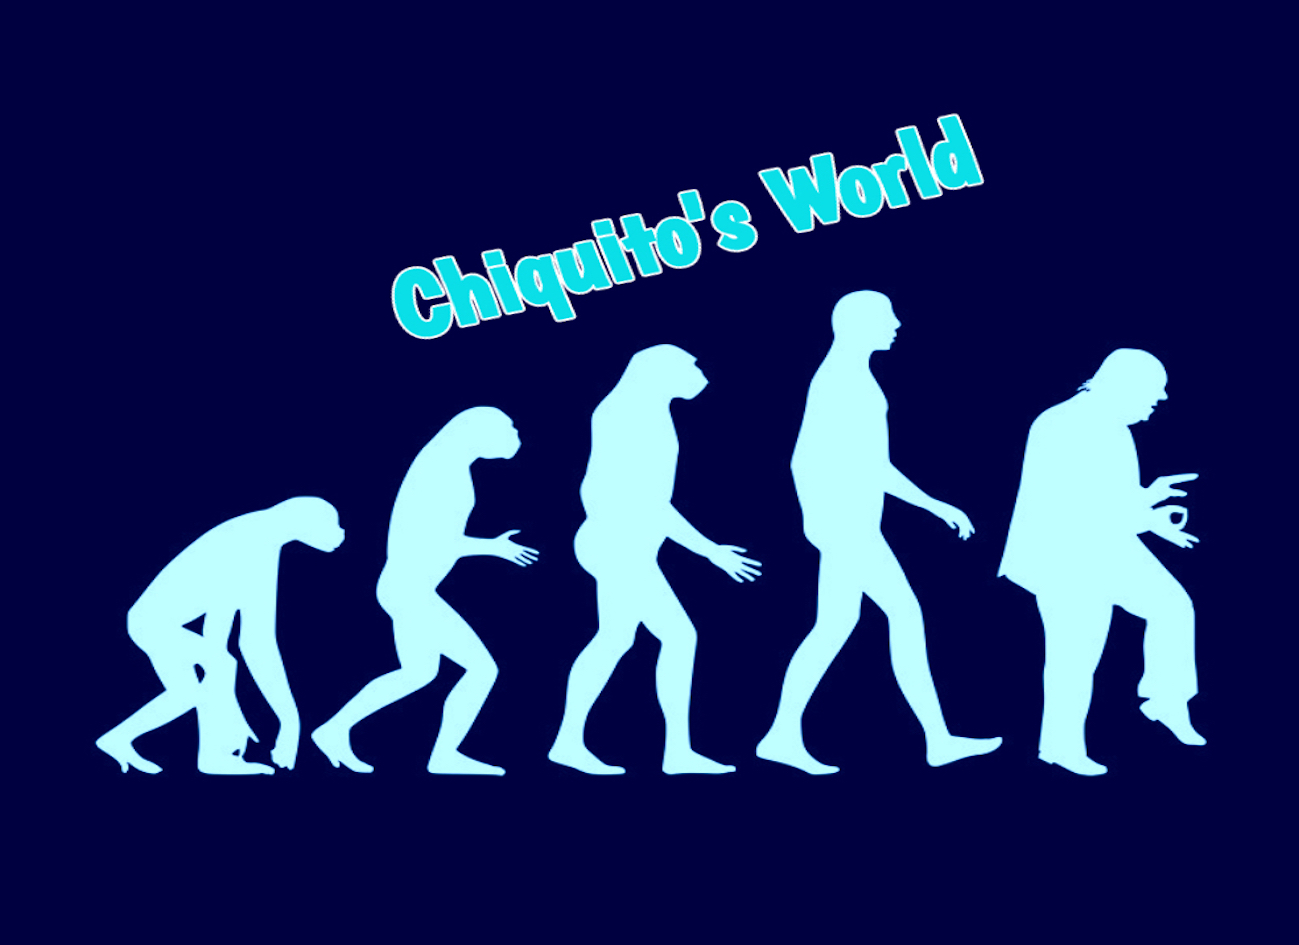
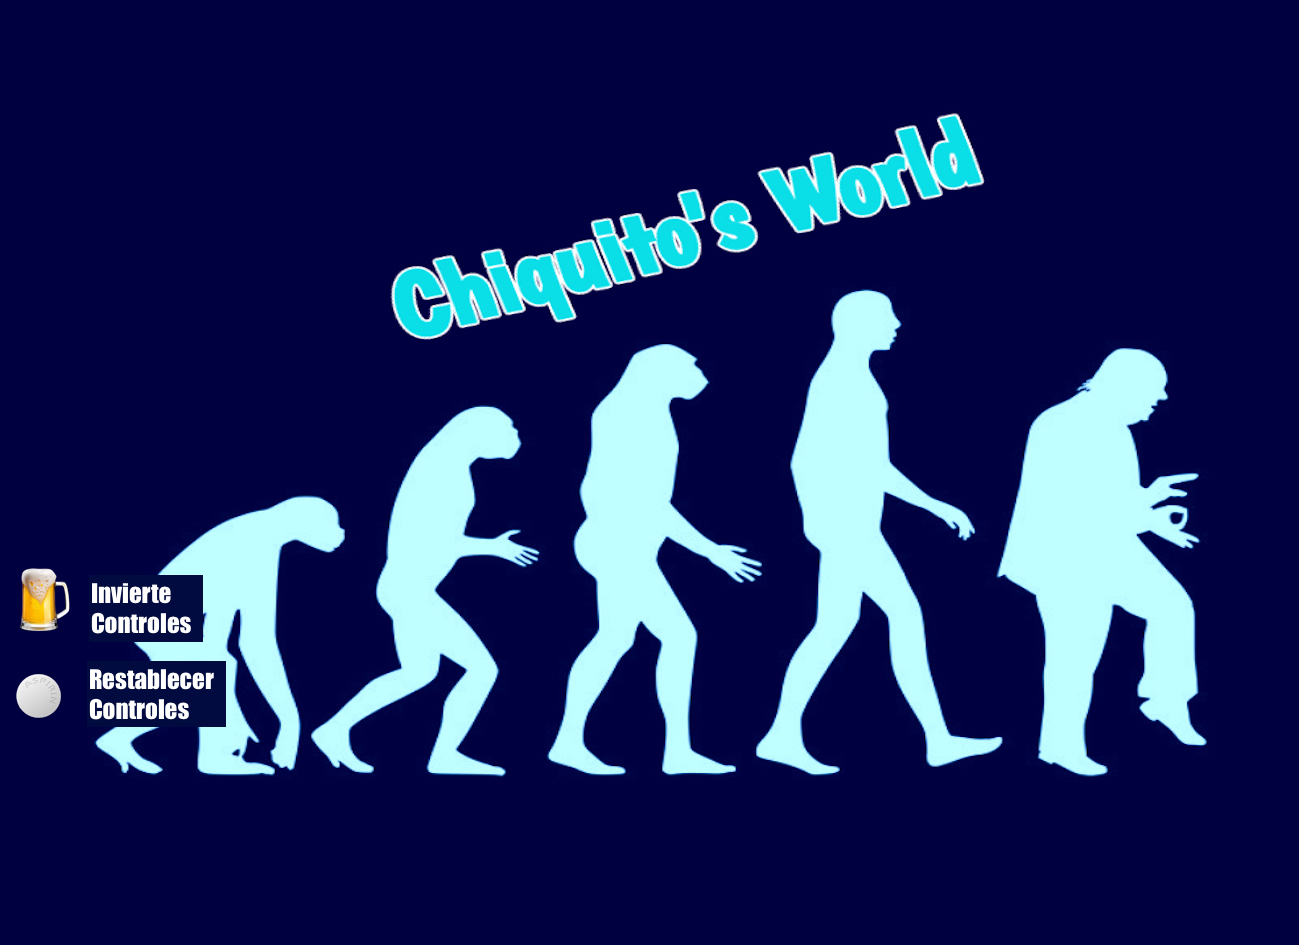
cerveza y aspirina

Changed region(s): [[0.0, 0.5831, 0.1848, 0.7672]]

diff --git a/Chiquito/game.js b/Chiquito/game.js
@@ -23,7 +23,8 @@ window.onload = function () {
         },
         plataforma: undefined,
         score: undefined,
-
+        item: [],
+        aspirina: [],
 
         init: function () {
             this.canvas = document.getElementById("canvas")
@@ -49,12 +50,18 @@ window.onload = function () {
                 this.generateObstacles()
                 this.gnerateEnemys()
                 this.gnerateEnemysTwo()
+                this.gnerateItems()
+                this.gnerateAspirina()
                 this.clearObstacles()
                 this.clearEnemy()
                 this.clearEnemyTwo()
+                this.clearItem()
+                this.clearAspirina()
                 this.isCollision()
                 this.isCollisionTwo()
+                this.isCollisionThree()
                 this.isCollisionFour()
+                this.isCollisionFive()
                 // this.levelUp()
                 if (this.player.posY > this.canvas.height - 5) {
                     document.getElementById("grito").play()
@@ -76,6 +83,8 @@ window.onload = function () {
             this.obstacles = []
             this.enemy = []
             this.enemyTwo = []
+            this.item = []
+            this.aspirina = []
             this.obstacles.push(this.firstObs)
             this.obj = this.obstacles[0]
             this.supObsCero = setTimeout(() => {
@@ -87,6 +96,8 @@ window.onload = function () {
             this.drawScore()
             this.enemy.forEach(enemy => enemy.draw())
             this.enemyTwo.forEach(enemyTwo => enemyTwo.draw())
+            this.item.forEach(item => item.draw())
+            this.aspirina.forEach(aspirina => aspirina.draw())
             this.obstacles[0].draw()
             for (let i = 1; i < this.obstacles.length; i++) {
                 this.obstacles[i].draw()
@@ -97,21 +108,20 @@ window.onload = function () {
         moveAll: function () {
             this.enemy.forEach(enemy => enemy.move())
             this.enemyTwo.forEach(enemyTwo => enemyTwo.move())
+            this.item.forEach(item => item.move())
+            this.aspirina.forEach(aspirina => aspirina.move())
             for (let i = 1; i < this.obstacles.length; i++) {
                 this.obstacles[i].move()
             }
             this.background.move()
             this.player.move()
-
         },
-
         clear: function () {
             this.ctx.clearRect(0, 0, this.canvas.width, this.canvas.height)
         },
         //-----------------------------------------------------------------
         generateObstacles: function () {
             if (this.framesCounter % 140 == 0) {
-
                 this.obstacles.push(new Obstacle("img/LandPiece_LightGreen.png", this.ctx, this.canvas.width, this.player.posY0, Math.floor(Math.random() * this.width - 100), this.player.height - 200))
             }
         },
@@ -125,6 +135,18 @@ window.onload = function () {
             if (this.framesCounter % 400 == 0) {
                 this.enemyTwo.push(new EnemyTwo("img/ninja1-200x227.png", this.ctx, this.canvas.width, this.player.posY0, Math.floor(Math.random() * this.width - 100), this.player.height - 200))
                 document.getElementById("omg").play()
+            }
+        },
+        gnerateItems: function () {
+            if (this.framesCounter % 350 == 0) {
+                this.item.push(new Item("img/kisspng-beer-icon-design-icon-beer-5a6a1851e1c1d3.5866716315169024819247.png", this.ctx, this.canvas.width, this.player.posY0, Math.floor(Math.random() * this.width - 100), this.player.height - 200))
+                //document.getElementById("omg").play()
+            }
+        },
+        gnerateAspirina: function () {
+            if (this.framesCounter % 500 == 0) {
+                this.aspirina.push(new Aspirina("img/59bf7f587a216d0b052f12d1.png", this.ctx, this.canvas.width, this.player.posY0, Math.floor(Math.random() * this.width - 100), this.player.height - 200))
+                //document.getElementById("omg").play()
             }
         },
         //-----------------------------------------------------------------
@@ -146,6 +168,20 @@ window.onload = function () {
             this.enemyTwo.forEach((enemyTwo, idx) => {
                 if (enemyTwo.posY > this.canvas.height - 5) {
                     this.enemyTwo.splice(idx, 1)
+                }
+            })
+        },
+        clearItem: function () {
+            this.item.forEach((item, idx) => {
+                if (item.posY > this.canvas.height - 5) {
+                    this.item.splice(idx, 1)
+                }
+            })
+        },
+        clearAspirina: function () {
+            this.aspirina.forEach((aspirina, idx) => {
+                if (aspirina.posY > this.canvas.height - 5) {
+                    this.aspirina.splice(idx, 1)
                 }
             })
         },
@@ -186,6 +222,20 @@ window.onload = function () {
             })
 
         },
+        isCollisionThree: function () {
+            this.item.forEach(item => {
+                if ((this.player.posX + this.player.width) > (item.posX)
+                    && (this.player.posY + this.player.height) > (item.posY)
+                    && this.player.posX < (item.posX + item.width)
+                    && this.player.posY < (item.posY + item.height)) {
+                    this.keys.LEFT_KEY.key = 39
+                    this.keys.RIGHT_KEY.key = 37
+                    document.getElementById("camarero").play()
+                    this.item.splice(0, 1)
+                }
+            })
+
+        },
         isCollisionFour: function () {
             this.enemyTwo.forEach(enemyTwo => {
                 if ((this.player.posX + this.player.width) > (enemyTwo.posX + 50)
@@ -194,6 +244,20 @@ window.onload = function () {
                     && this.player.posY < (enemyTwo.posY + enemyTwo.height - 50)) {
                     document.getElementById("hdp").play()
                     this.gameOver()
+                }
+            })
+
+        },
+        isCollisionFive: function () {
+            this.aspirina.forEach(aspirina => {
+                if ((this.player.posX + this.player.width) > (aspirina.posX)
+                    && (this.player.posY + this.player.height) > (aspirina.posY)
+                    && this.player.posX < (aspirina.posX + aspirina.width)
+                    && this.player.posY < (aspirina.posY + aspirina.height)) {
+                    this.keys.LEFT_KEY.key = 37
+                    this.keys.RIGHT_KEY.key = 39
+                    document.getElementById("cuidadin").play()
+                    this.aspirina.splice(0, 1)
                 }
             })
 

diff --git a/Chiquito/index.html b/Chiquito/index.html
@@ -7,6 +7,10 @@
     <meta http-equiv="X-UA-Compatible" content="ie=edge">
     <title>Chiquito's World</title>
     <link rel="stylesheet" href="style.css">
+    <audio id="cuidadin">
+        <source src="mp3/cuidadin.ogg"> </audio>
+    <audio id="camarero">
+        <source src="mp3/camarerorrrlll.mp3"> </audio>
     <audio id="grito">
         <source src="mp3/grito.mp3"> </audio>
     <audio id="malo">
@@ -17,7 +21,10 @@
         <source src="mp3/fuegorrrlll.mp3"></audio>
     <audio id="hdp" onvolumechange="4">
         <source src="mp3/HDP.ogg"></audio>
+
     <script src="timer.js"></script>
+    <script src="aspirina.js"></script>
+    <script src="item.js"></script>
     <script src="enemy2.js"></script>
     <script src="enemy.js"></script>
     <script src="obstacles.js"></script>

diff --git a/Chiquito/aspirina.js b/Chiquito/aspirina.js
@@ -1,0 +1,21 @@
+class Aspirina {
+    constructor(src, ctx, canvasH, canvasW, posX, posY) {
+        this.ctx = ctx;
+        this.width = 30
+        this.height = 30
+        this.canvasW = canvasW
+        this.velY = 2;
+        this.posX = posX;
+        this.posY = posY;
+        this.image = new Image()
+        this.image.src = src
+    }
+    draw() {
+        this.ctx.drawImage(this.image, this.posX, this.posY, this.width, this.height);
+    }
+    move() {
+        this.posY += this.velY
+    }
+
+
+}

diff --git a/Chiquito/item.js b/Chiquito/item.js
@@ -1,0 +1,21 @@
+class Item {
+    constructor(src, ctx, canvasH, canvasW, posX, posY) {
+        this.ctx = ctx;
+        this.width = 50
+        this.height = 50
+        this.canvasW = canvasW
+        this.velY = 2;
+        this.posX = posX;
+        this.posY = posY;
+        this.image = new Image()
+        this.image.src = src
+    }
+    draw() {
+        this.ctx.drawImage(this.image, this.posX, this.posY, this.width, this.height);
+    }
+    move() {
+        this.posY += this.velY
+    }
+
+
+}

diff --git a/Chiquito/style.css b/Chiquito/style.css
@@ -1,6 +1,7 @@
 body{
   background-image: url("img/wall2.jpg");
-  background-size: 80em;
+  background-size: cover;
+  background-repeat: no-repeat;
   background-position-x: center;
   background-position: center;
   margin-bottom: 25em;

diff --git a/Chiquito/chiquito.js b/Chiquito/chiquito.js
@@ -42,7 +42,6 @@ class Player {
     }
 
     move() {
-
         if (this.keys.TOP_KEY.down && this.canTop) {
             this.posY -= 1;
             this.velY = - 10;
